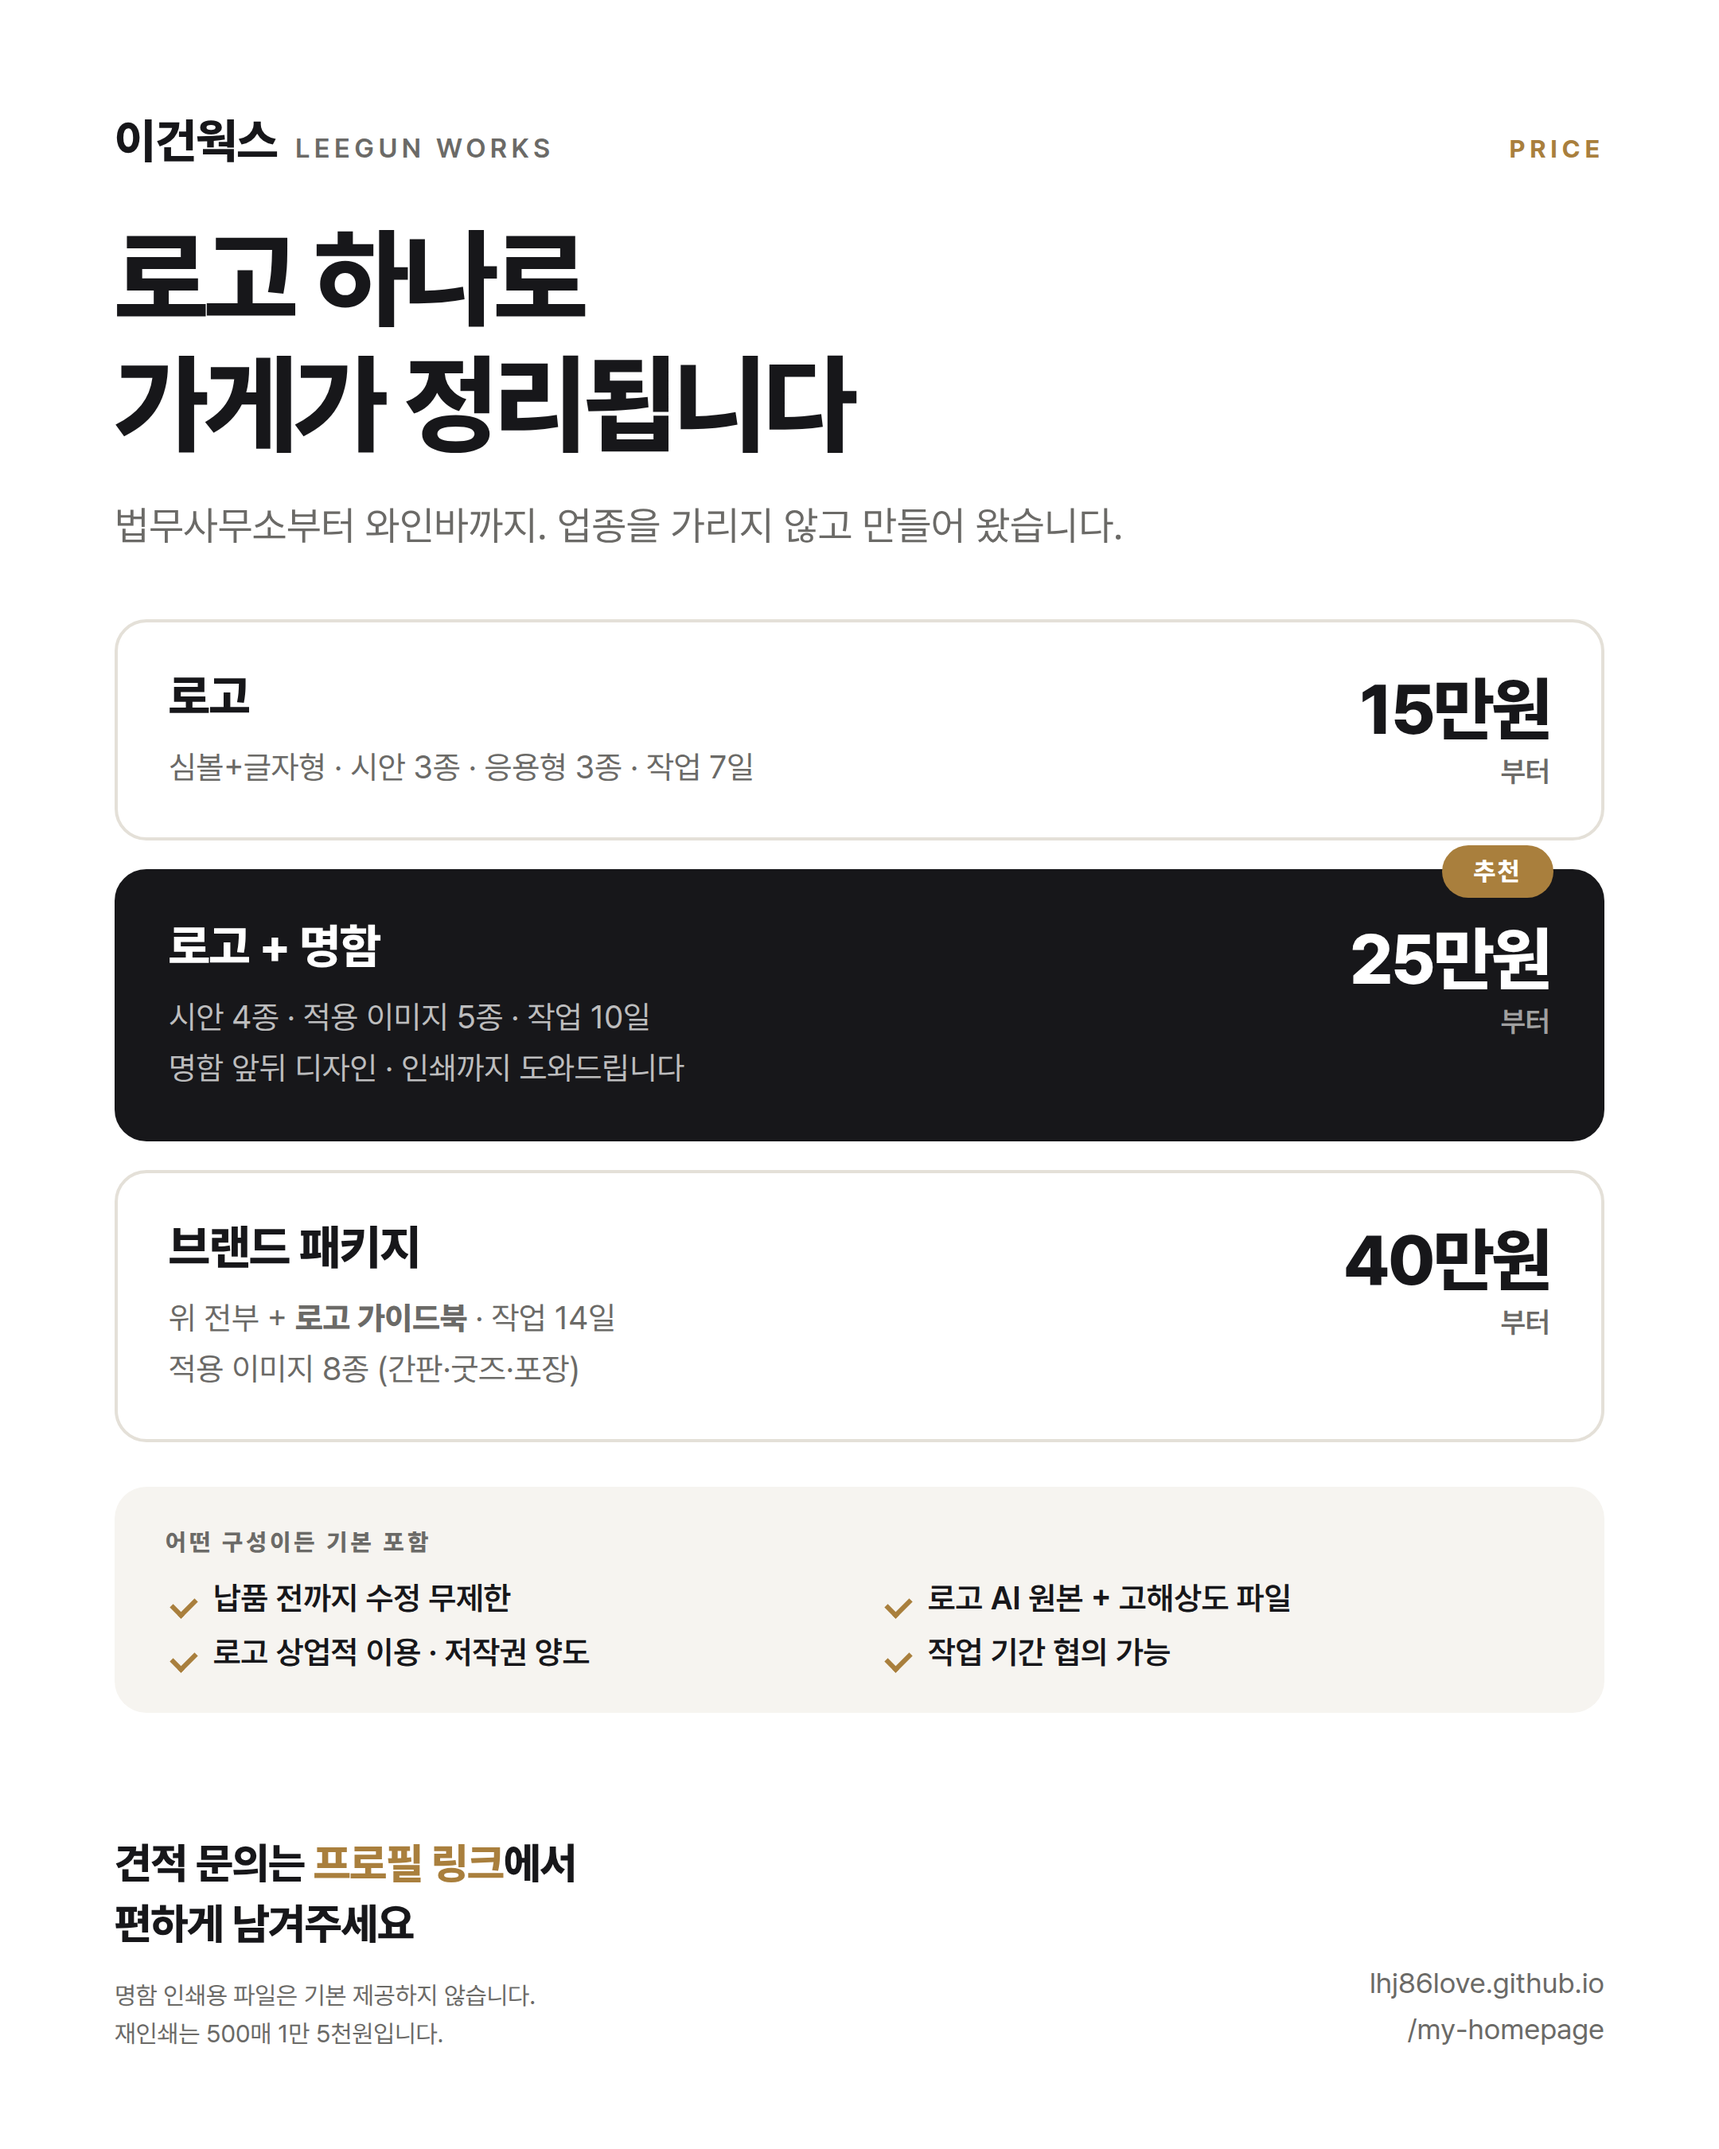
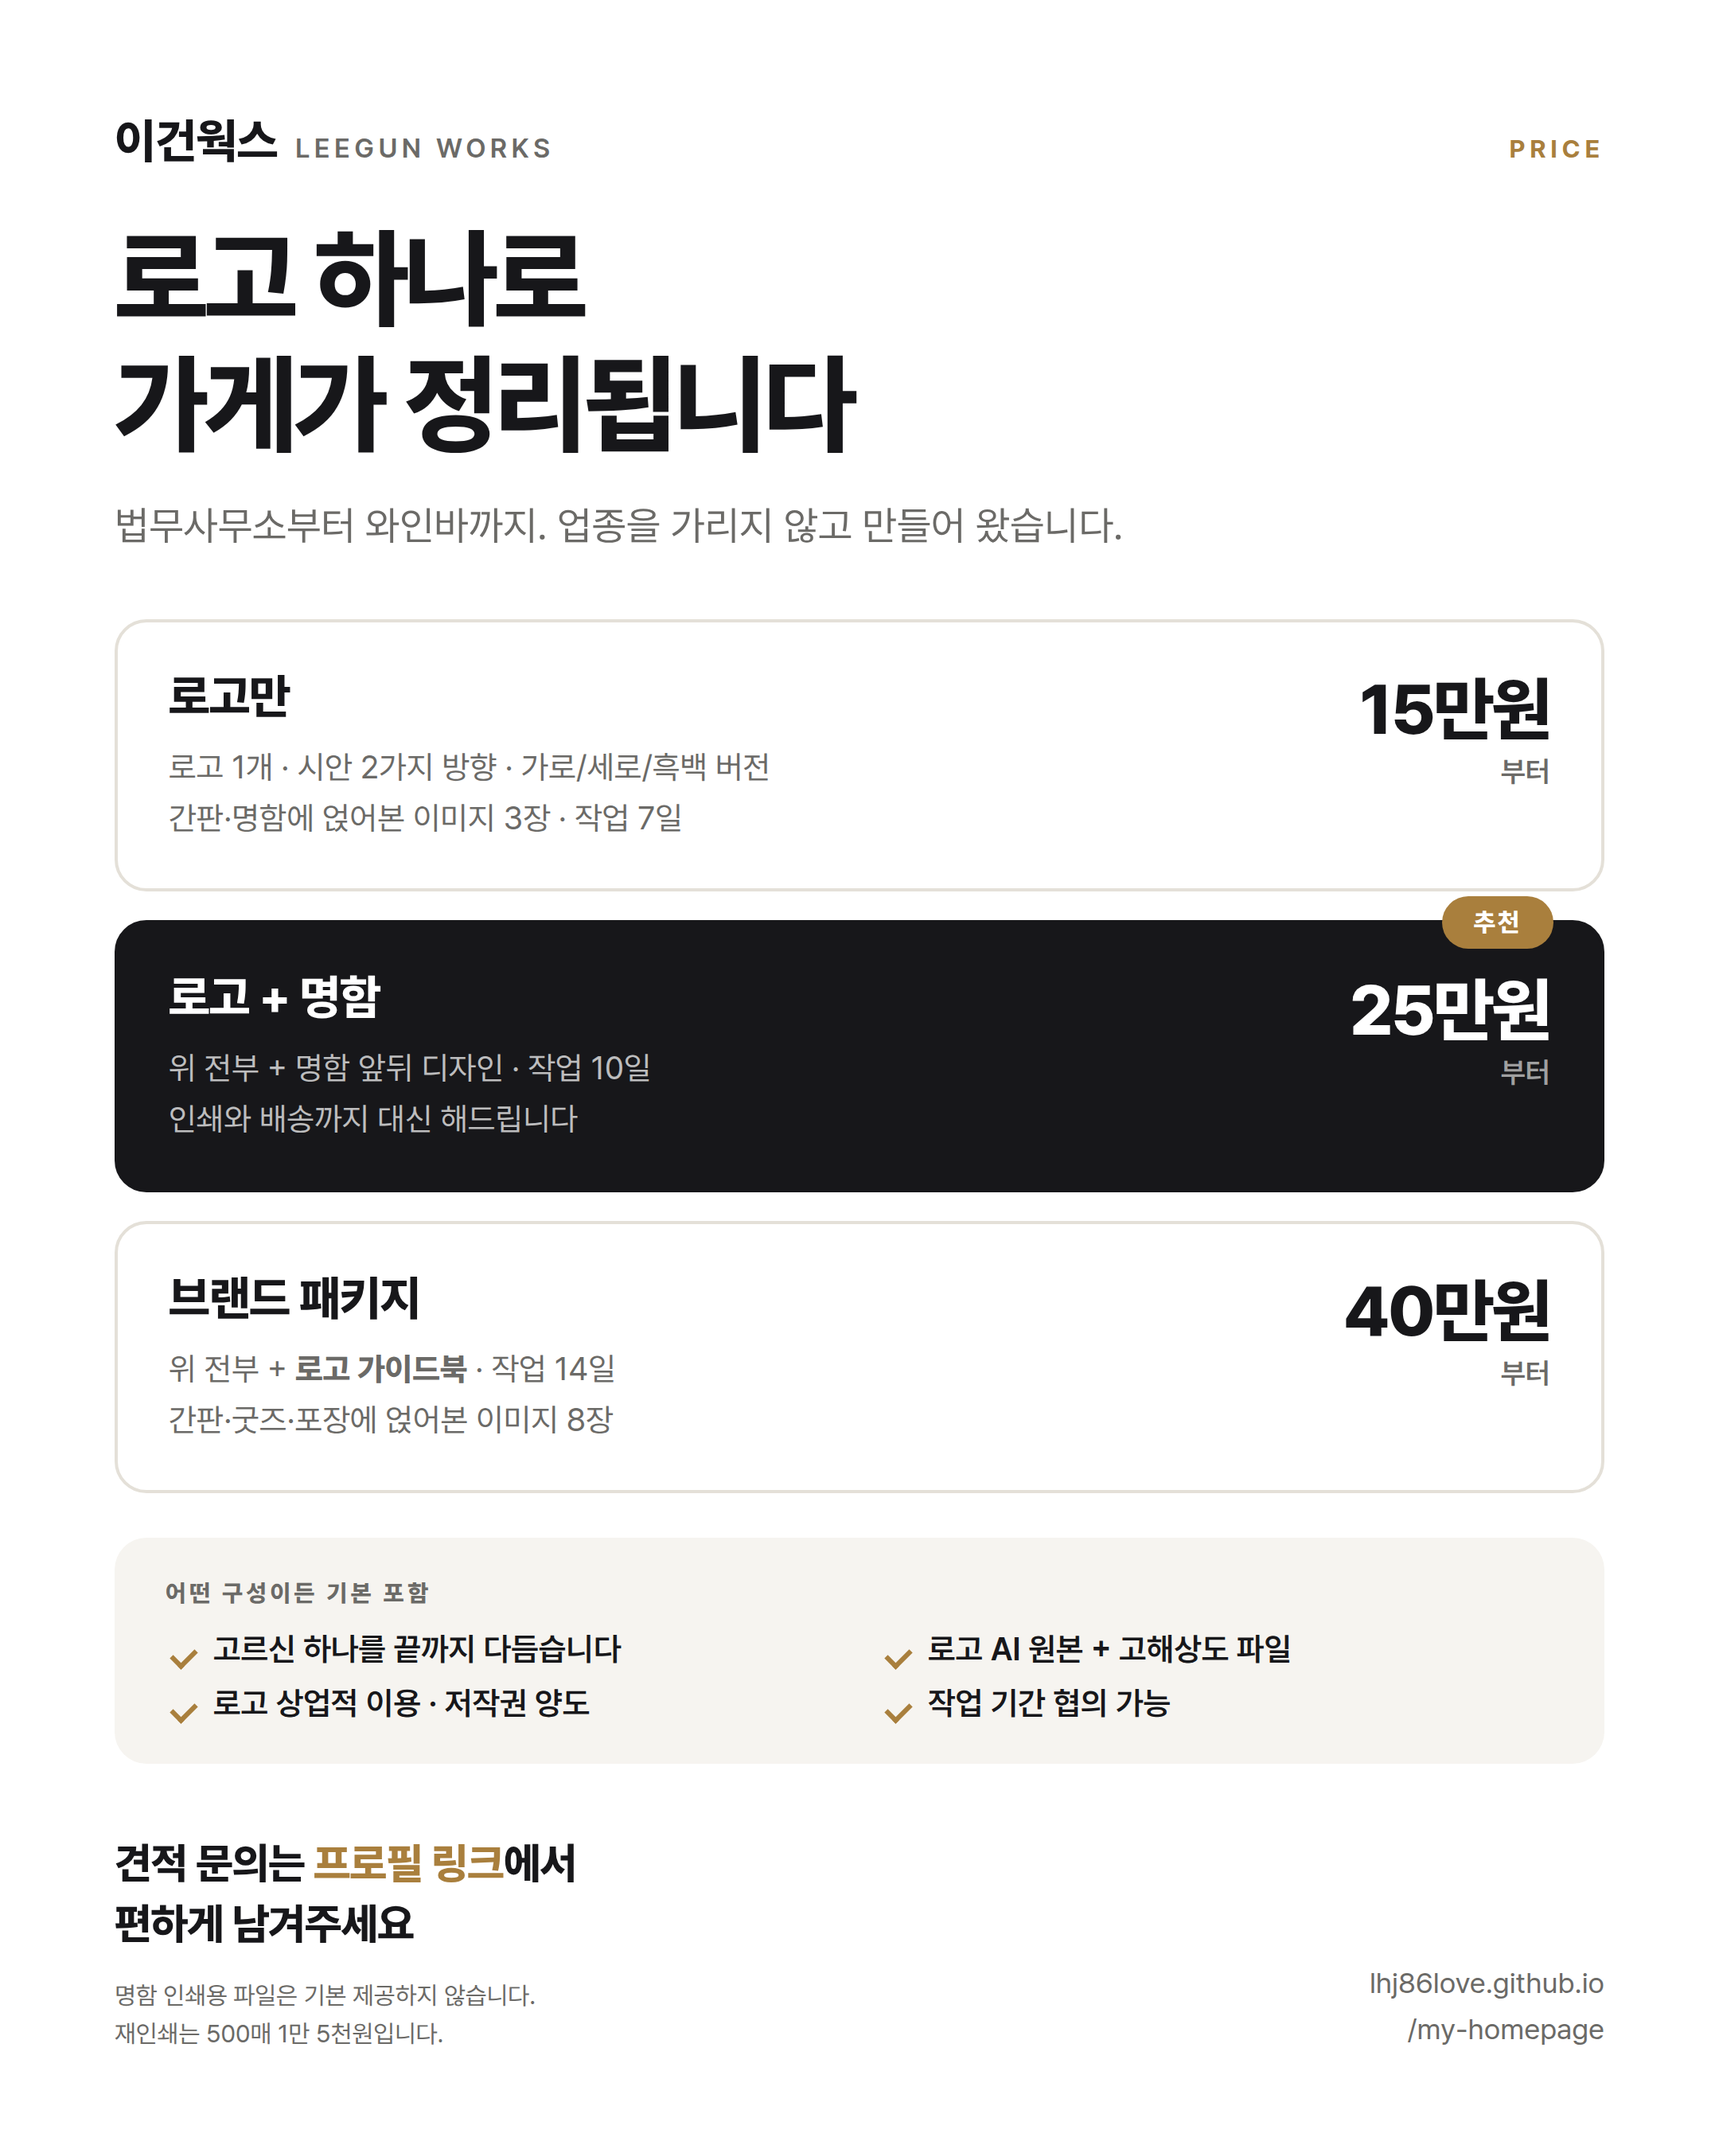
시안 수를 작업량에 맞춰 낮추고 전문 용어를 쉬운 말로 교체
로고 1개에 하루가 걸리는데 시안 3~4종을 요구하고 있어,
완성해야 할 로고가 등급마다 3~4개가 되던 문제를 해결.

시안
- 모든 구성을 "시안 2가지 방향 중 고르기"로 통일
- 고른 하나만 완성한다는 원칙을 가격 안내문에 명시
- 등급 차이를 시안 수가 아니라 범위(명함·가이드북)로 구분

용어
- "응용형" → "가로형 · 세로형 · 흑백 버전"
- "적용 이미지 N종" → "간판·명함에 얹어본 이미지 N장"
- "심볼 + 글자형 로고" → "로고 1개 (그림 + 글자)"
- 첫 구성 이름을 "로고"에서 "로고만"으로 변경해 범위를 명확히

- "시안이 마음에 안 들면" 항목을 새 방식에 맞게 수정
- SNS 가격표 이미지 2종 동일 내용으로 갱신

Claude-Session: https://claude.ai/code/session_017k88eCwHgaHqXUauqk9q1x

Changed region(s): [[0.062, 0.3111, 0.9306, 0.6844], [0.0931, 0.7156, 0.3722, 0.8089], [0.5273, 0.7156, 0.7444, 0.8089]]

diff --git a/sns/가격표-이미지-원본.html b/sns/가격표-이미지-원본.html
@@ -120,8 +120,8 @@
   <div class="tiers">
     <div class="tier">
       <div class="t-left">
-        <p class="t-name">로고</p>
-        <p class="t-items">심볼+글자형 · 시안 3종 · 응용형 3종 · 작업 7일</p>
+        <p class="t-name">로고만</p>
+        <p class="t-items">로고 1개 · 시안 2가지 방향 · 가로/세로/흑백 버전<br>간판·명함에 얹어본 이미지 3장 · 작업 7일</p>
       </div>
       <p class="t-price">15만원<small>부터</small></p>
     </div>
@@ -130,7 +130,7 @@
       <span class="badge">추천</span>
       <div class="t-left">
         <p class="t-name">로고 + 명함</p>
-        <p class="t-items">시안 4종 · 적용 이미지 5종 · 작업 10일<br>명함 앞뒤 디자인 · 인쇄까지 도와드립니다</p>
+        <p class="t-items">위 전부 + 명함 앞뒤 디자인 · 작업 10일<br>인쇄와 배송까지 대신 해드립니다</p>
       </div>
       <p class="t-price">25만원<small>부터</small></p>
     </div>
@@ -138,7 +138,7 @@
     <div class="tier">
       <div class="t-left">
         <p class="t-name">브랜드 패키지</p>
-        <p class="t-items">위 전부 + <b>로고 가이드북</b> · 작업 14일<br>적용 이미지 8종 (간판·굿즈·포장)</p>
+        <p class="t-items">위 전부 + <b>로고 가이드북</b> · 작업 14일<br>간판·굿즈·포장에 얹어본 이미지 8장</p>
       </div>
       <p class="t-price">40만원<small>부터</small></p>
     </div>
@@ -147,7 +147,7 @@
   <div class="common">
     <p class="common-label">어떤 구성이든 기본 포함</p>
     <ul>
-      <li>납품 전까지 수정 무제한</li>
+      <li>고르신 하나를 끝까지 다듬습니다</li>
       <li>로고 AI 원본 + 고해상도 파일</li>
       <li>로고 상업적 이용 · 저작권 양도</li>
       <li>작업 기간 협의 가능</li>
@@ -176,8 +176,8 @@
   <div class="tiers">
     <div class="tier">
       <div class="t-left">
-        <p class="t-name">로고</p>
-        <p class="t-items">심볼+글자형 · 시안 3종 · 응용형</p>
+        <p class="t-name">로고만</p>
+        <p class="t-items">로고 1개 · 시안 2가지 방향 · 버전 3종</p>
       </div>
       <p class="t-price">15만원<small>부터</small></p>
     </div>
@@ -186,7 +186,7 @@
       <span class="badge">추천</span>
       <div class="t-left">
         <p class="t-name">로고 + 명함</p>
-        <p class="t-items">시안 4종 · 명함 앞뒤 디자인 포함</p>
+        <p class="t-items">위 전부 + 명함 앞뒤 · 인쇄 대행</p>
       </div>
       <p class="t-price">25만원<small>부터</small></p>
     </div>
@@ -194,7 +194,7 @@
     <div class="tier">
       <div class="t-left">
         <p class="t-name">브랜드 패키지</p>
-        <p class="t-items">위 전부 + <b>로고 가이드북</b> · 적용 8종</p>
+        <p class="t-items">위 전부 + <b>로고 가이드북</b> · 이미지 8장</p>
       </div>
       <p class="t-price">40만원<small>부터</small></p>
     </div>
@@ -203,7 +203,7 @@
   <div class="common">
     <p class="common-label">어떤 구성이든 기본 포함</p>
     <ul>
-      <li>납품 전까지 수정 무제한</li>
+      <li>고르신 하나를 끝까지 다듬습니다</li>
       <li>로고 AI 원본 + 고해상도 파일</li>
       <li>로고 상업적 이용 · 저작권 양도</li>
       <li>작업 기간 협의 가능</li>

diff --git a/config.js b/config.js
@@ -38,7 +38,7 @@ const SITE = {
     },
     {
       q: "시안이 하나도 마음에 안 들면요?",
-      a: "납품 전까지는 수정 횟수를 세지 않습니다. 방향 자체가 안 맞으면 처음부터 다시 제안드립니다.",
+      a: "납품 전까지는 수정 횟수를 세지 않습니다. 두 방향이 다 아니면 다시 잡아 보여드립니다. 고르신 다음에도 마음에 드실 때까지 다듬습니다.",
     },
     {
       q: "이미 쓰던 로고를 명함에 넣고 싶어요.",
@@ -67,18 +67,20 @@ const SITE = {
   /* ---------- 5. 가격표 ----------
      price 는 "○○만원부터" 형태로 적습니다.
      best: true 를 붙인 것 하나가 "추천" 표시와 함께 강조됩니다. */
-  priceNote: "작업 범위에 따라 달라질 수 있어, 정확한 금액은 상담 후 알려드립니다.",
+  priceNote:
+    "시안은 방향이 다른 2가지를 잡아 보여드리고, 고르신 하나를 끝까지 다듬습니다. " +
+    "작업 범위에 따라 달라질 수 있어 정확한 금액은 상담 후 알려드립니다.",
 
   services: [
     {
-      title: "로고",
+      title: "로고만",
       price: "15만원부터",
       desc: "간판과 SNS에 바로 쓸 로고 하나가 필요한 분께.",
       items: [
-        "심볼 + 글자형 로고",
-        "시안 3종 제안",
-        "가로형·세로형·흑백 응용형",
-        "적용 이미지 3종",
+        "로고 1개 (그림 + 글자)",
+        "시안 2가지 방향 중 고르기",
+        "가로형 · 세로형 · 흑백 버전",
+        "간판·명함에 얹어본 이미지 3장",
         "작업 7일 (협의 가능)",
       ],
     },
@@ -88,11 +90,10 @@ const SITE = {
       best: true,
       desc: "간판부터 명함까지 한 번에 정리하고 싶은 분께.",
       items: [
-        "심볼 + 글자형 로고",
-        "시안 4종 제안",
-        "가로형·세로형·흑백 응용형",
-        "명함 앞뒤 디자인 (인쇄 진행까지 도와드립니다)",
-        "적용 이미지 5종",
+        "위 로고 구성 전부 포함",
+        "명함 앞뒤 디자인",
+        "인쇄와 배송까지 대신 해드립니다",
+        "간판·명함에 얹어본 이미지 5장",
         "작업 10일 (협의 가능)",
       ],
     },
@@ -101,9 +102,9 @@ const SITE = {
       price: "40만원부터",
       desc: "간판, 굿즈, 포장까지 하나의 톤으로 맞추고 싶은 분께.",
       items: [
-        "로고 + 명함 구성 전부 포함",
-        "로고 가이드북 (색상 값 · 디자인 컨셉 · 사용 범위)",
-        "적용 이미지 8종 (간판·굿즈·포장 등)",
+        "위 로고 + 명함 구성 전부 포함",
+        "로고 가이드북 (색상 값 · 컨셉 · 사용 범위)",
+        "간판·굿즈·포장에 얹어본 이미지 8장",
         "작업 14일 (협의 가능)",
       ],
     },
